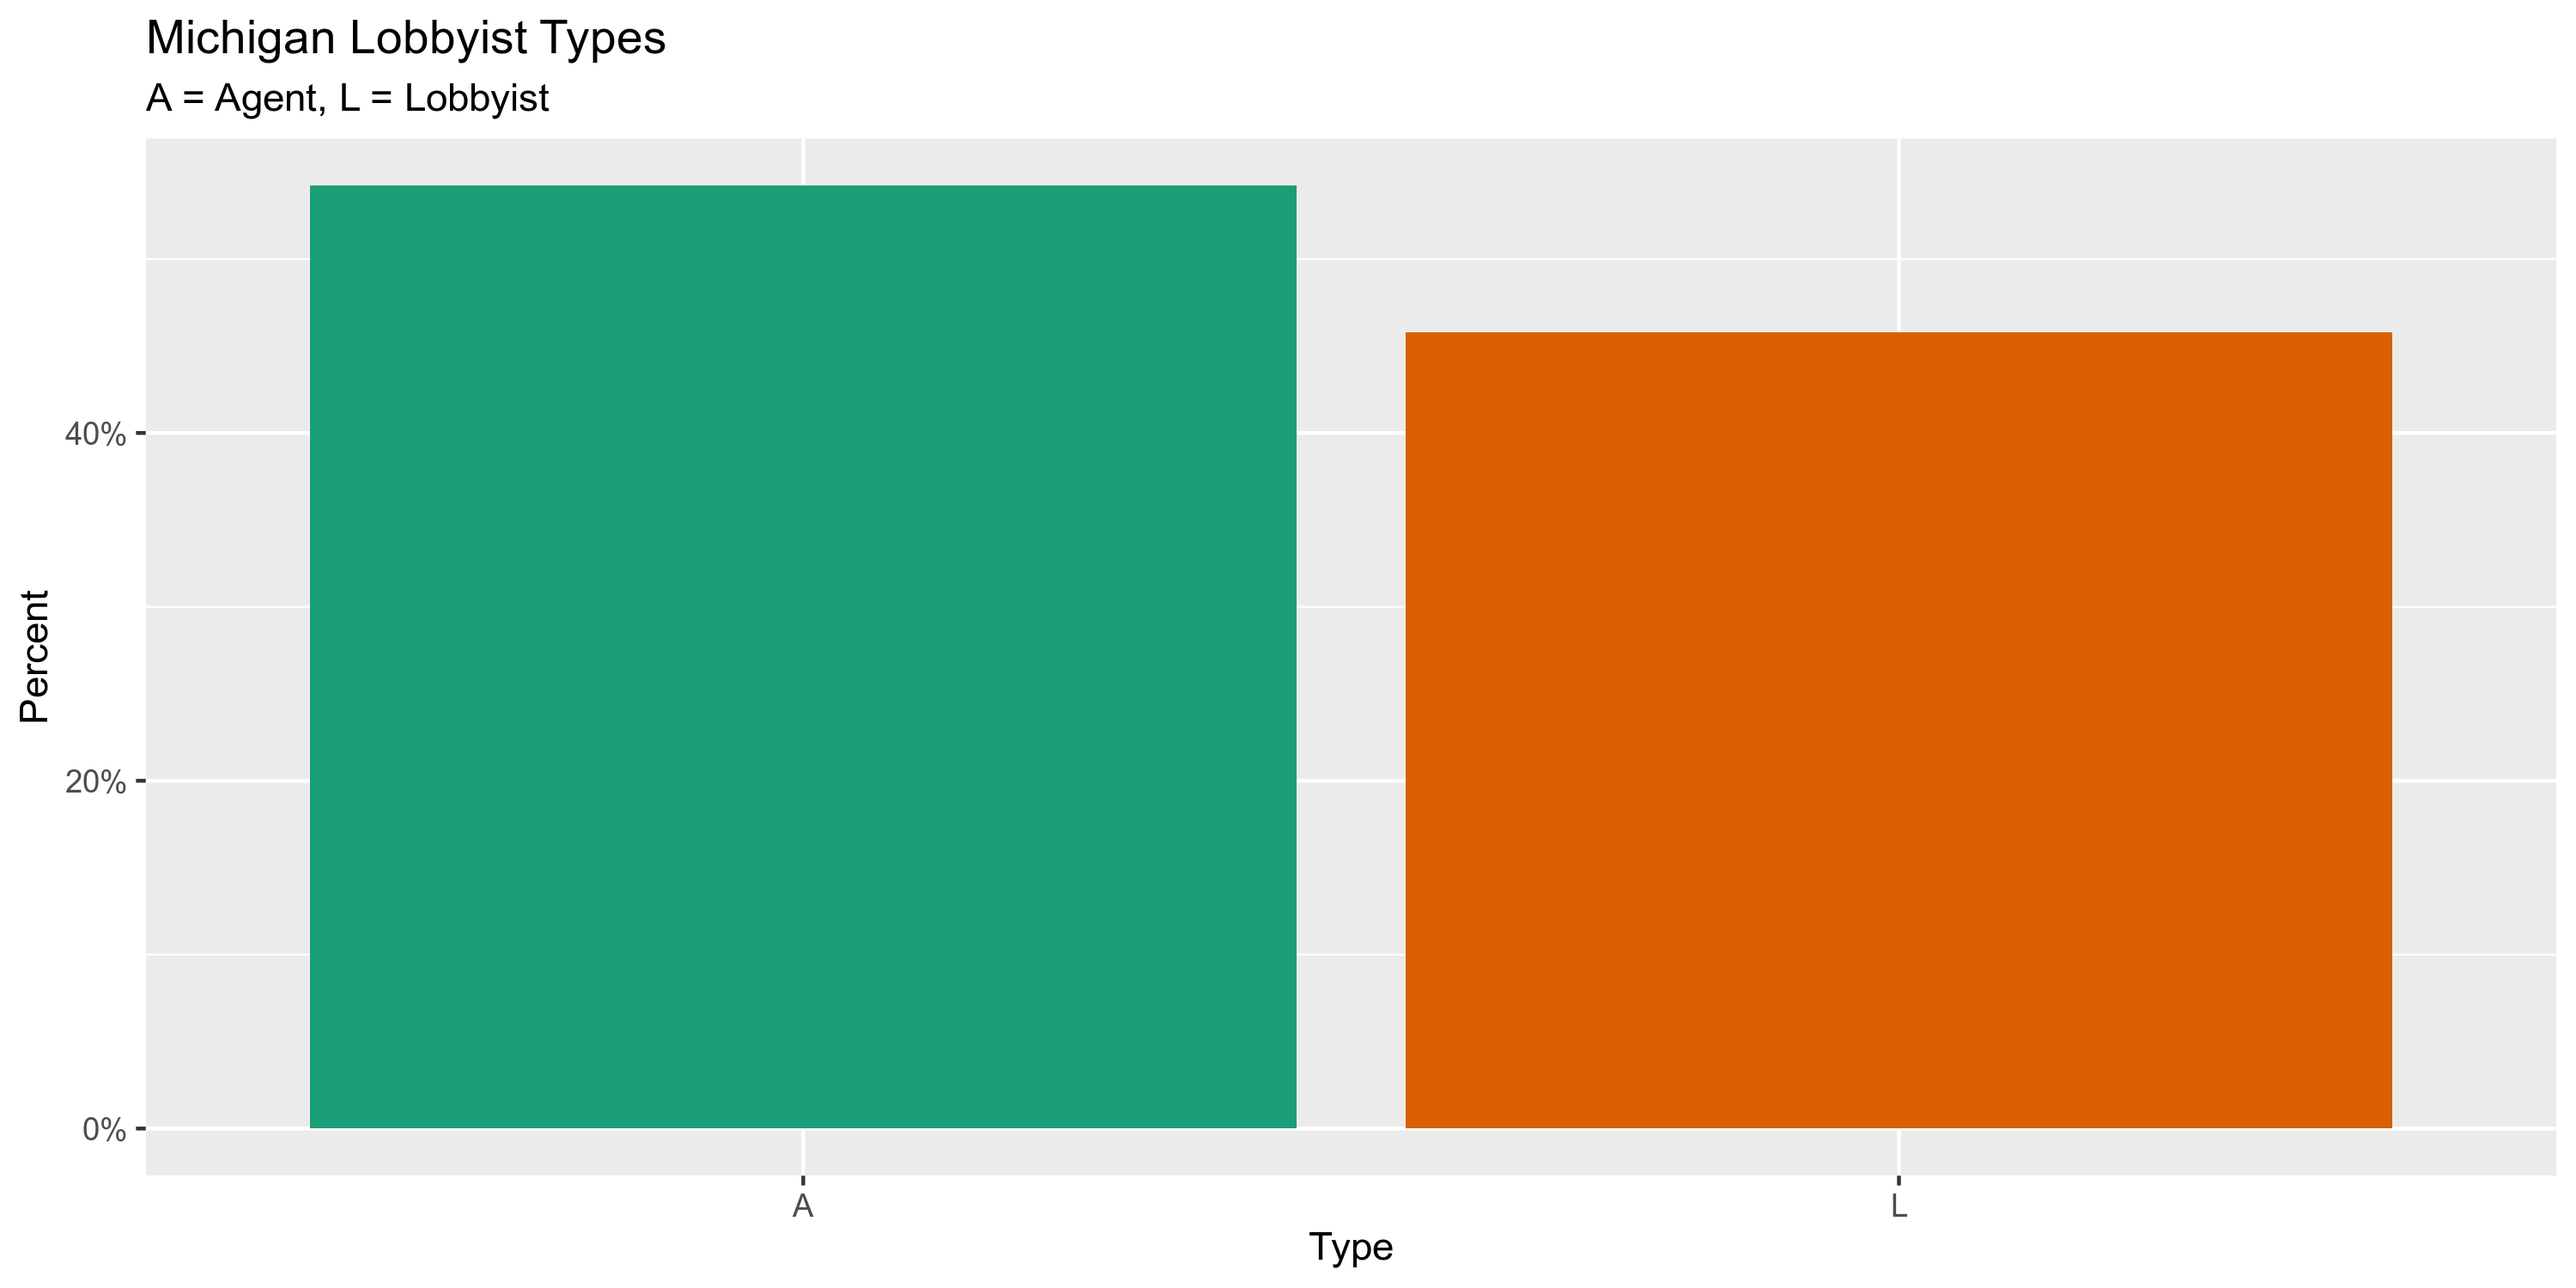
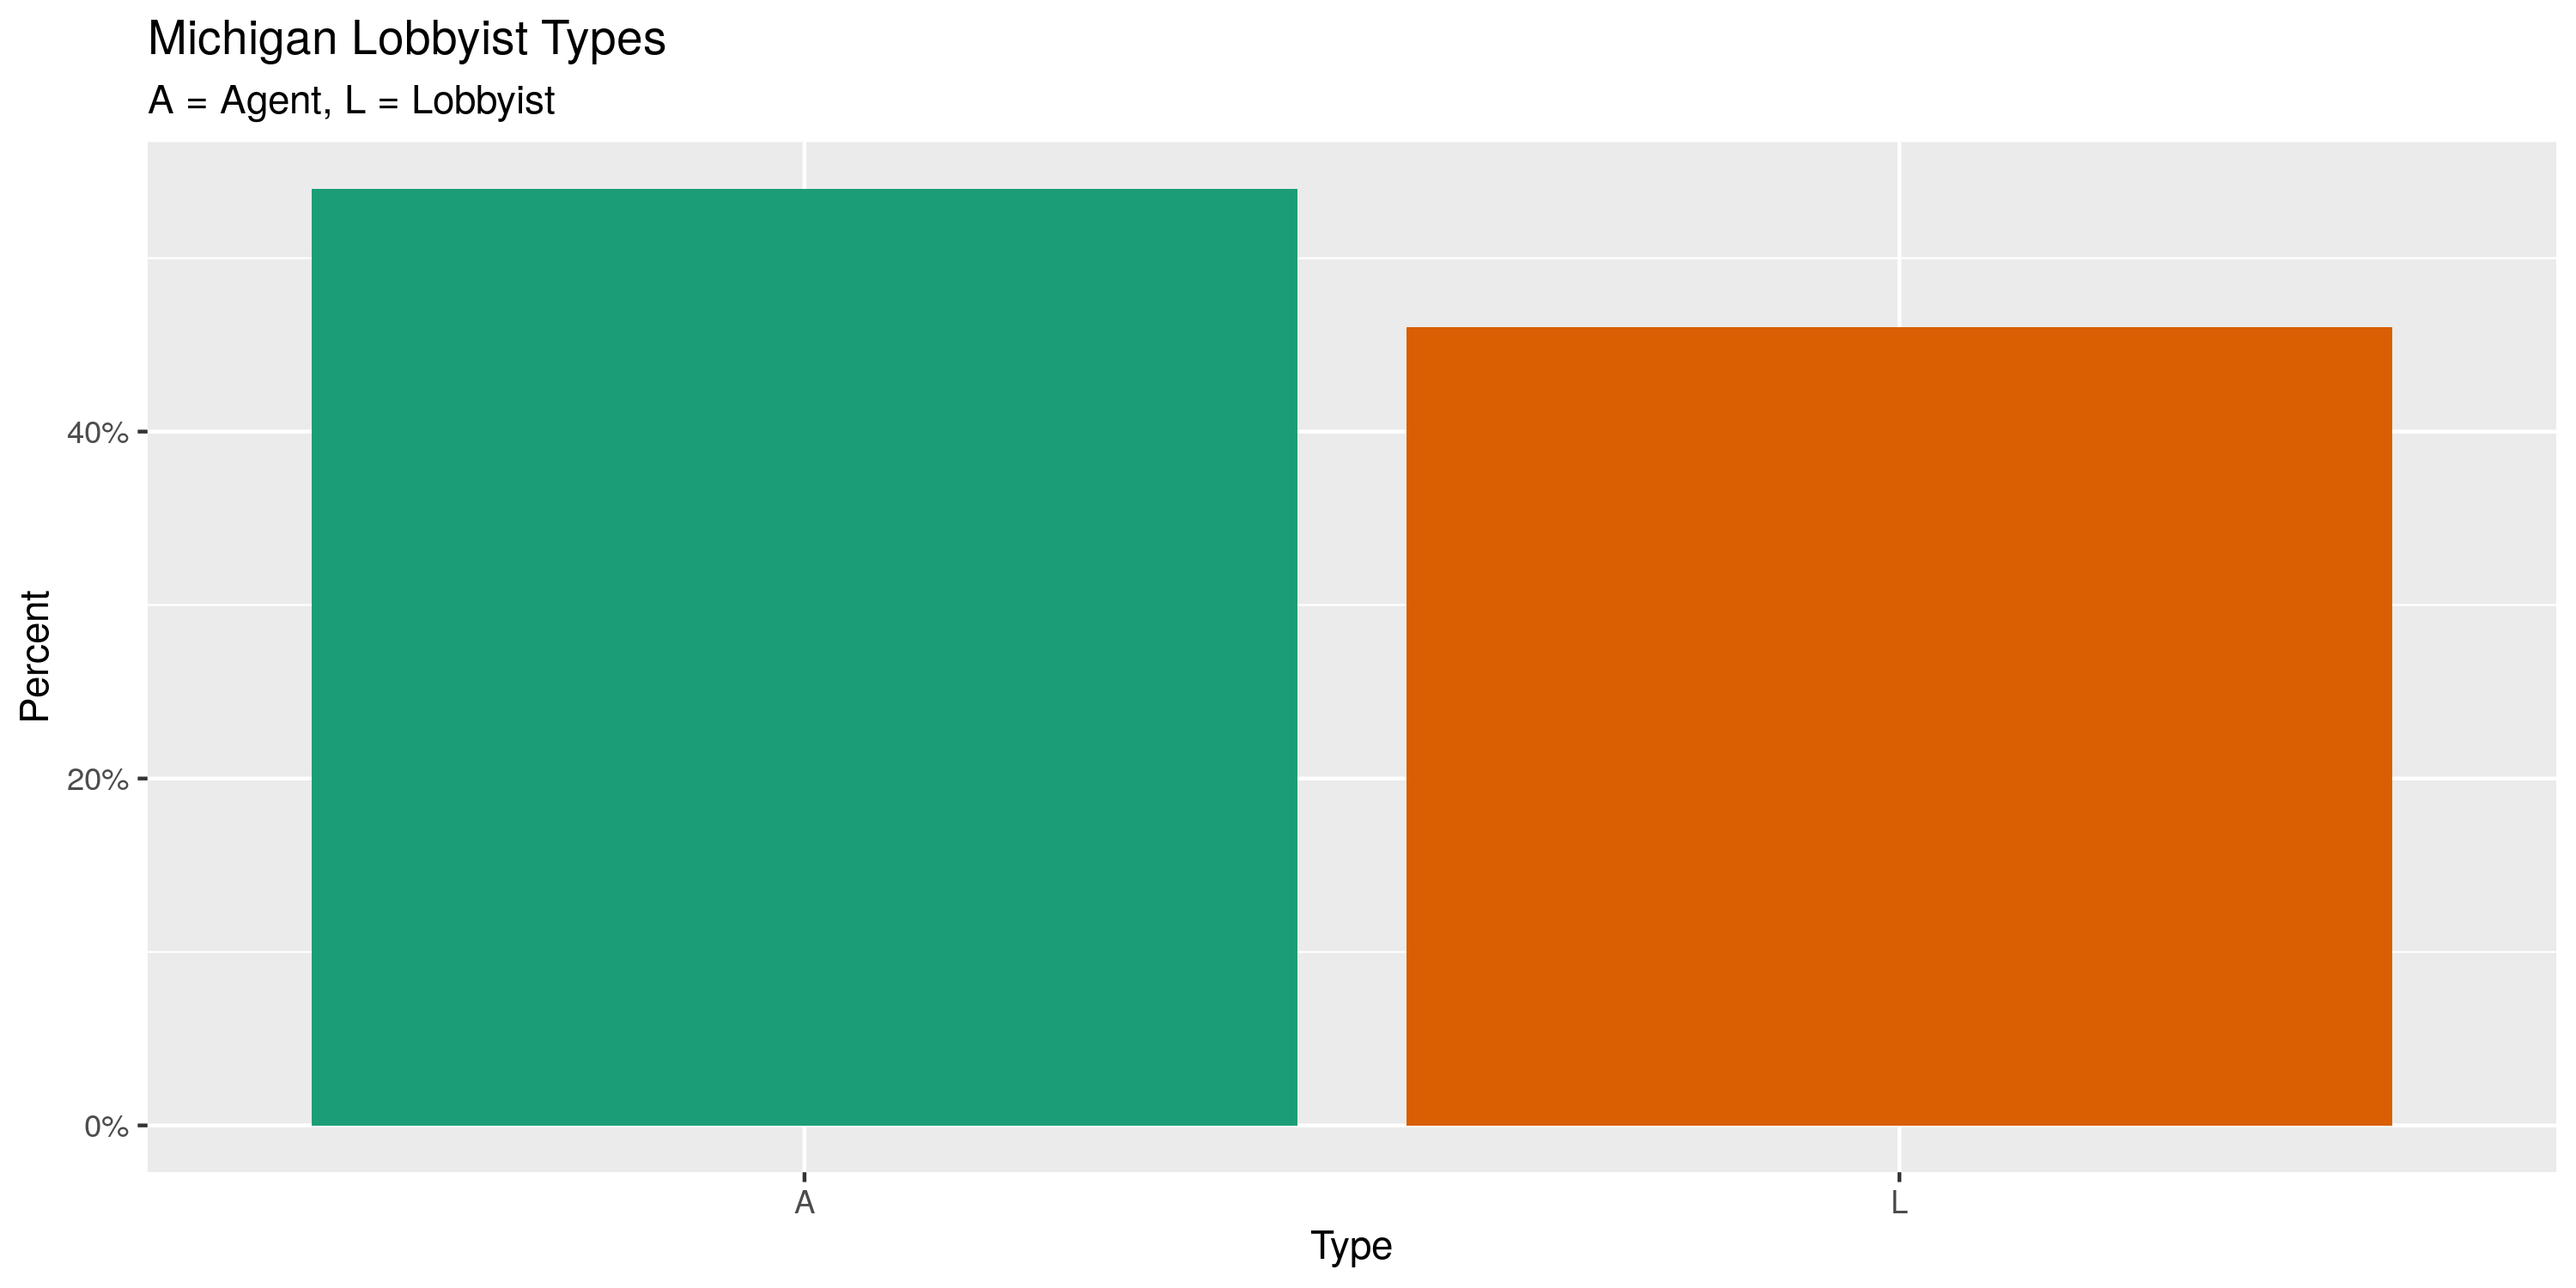
Update MI lobbyist registration

diff --git a/R_campfin/mi/lobby/docs/mi_lobby_diary.md b/R_campfin/mi/lobby/docs/mi_lobby_diary.md
@@ -1,7 +1,16 @@
 Michigan Lobbyists
 ================
 Kiernan Nicholls
-2019-12-04 16:10:11
+2020-01-21 16:03:02
+
+  - [Project](#project)
+  - [Objectives](#objectives)
+  - [Packages](#packages)
+  - [Data](#data)
+  - [Import](#import)
+  - [Explore](#explore)
+  - [Wrangle](#wrangle)
+  - [Export](#export)
 
 <!-- Place comments regarding knitting here -->
 
@@ -104,14 +113,17 @@ dir_create(raw_dir)
 ```
 
 ``` r
-lob_url <- "https://miboecfr.nicusa.com/cfr/dumpdata/aaa4NaO5g/mi_lobby.sh"
+# changes from time to time
+lob_url <- "https://miboecfr.nictusa.com/cfr/dumpdata/aaa51aybN/mi_lobby.sh"
 lob_path <- url2path(lob_url, raw_dir)
-download.file(
-  url = lob_url,
-  destfile = lob_path,
-  method = "curl",
-  extra = "--insecure"
-)
+if (!file_exists(lob_path)) {
+  download.file(
+    url = lob_url,
+    destfile = lob_path,
+    method = "curl",
+    extra = "--insecure"
+  )
+}
 ```
 
 ## Import
@@ -165,14 +177,14 @@ milr <- read_delim(
 ``` r
 head(milr)
 #> # A tibble: 6 x 13
-#>   id     type  last    first mi    sig     addr       city  state zip   phone reg        term      
-#>   <chr>  <fct> <chr>   <chr> <chr> <chr>   <chr>      <chr> <chr> <chr> <chr> <date>     <date>    
-#> 1 014673 A     (RADKE… JODI  L     <NA>    PO BOX 784 LOVE… CO    80539 9702… 2019-09-12 NA        
-#> 2 009995 L     2630 F… <NA>  <NA>  RICHAR… 721 NORTH… LANS… MI    4890… 5173… 2006-09-01 2008-11-30
-#> 3 011388 L     3 CLIC… <NA>  <NA>  A EDWI… 805 15TH … WASH… DC    20005 2026… 2010-07-12 2010-12-31
-#> 4 012438 L     3 REAS… <NA>  <NA>  RENAE … 201 TOWNS… LANS… MI    48933 5173… 2013-05-15 2014-07-31
-#> 5 011813 L     3D ETC… <NA>  <NA>  RICHAR… 22482 ORC… FARM… MI    48336 2489… 2011-08-15 2012-05-04
-#> 6 009088 L     3M COM… <NA>  <NA>  DAVID … 515 KING … ALEX… VA    22314 7036… 2003-01-01 NA
+#>   id     type  last     first mi    sig    addr       city  state zip   phone reg        term      
+#>   <chr>  <fct> <chr>    <chr> <chr> <chr>  <chr>      <chr> <chr> <chr> <chr> <date>     <date>    
+#> 1 014673 A     (RADKE)… JODI  L     <NA>   PO BOX 784 LOVE… CO    80539 9702… 2019-09-12 NA        
+#> 2 009995 L     2630 FE… <NA>  <NA>  RICHA… 721 NORTH… LANS… MI    4890… 5173… 2006-09-01 2008-11-30
+#> 3 011388 L     3 CLICK… <NA>  <NA>  A EDW… 805 15TH … WASH… DC    20005 2026… 2010-07-12 2010-12-31
+#> 4 012438 L     3 REASO… <NA>  <NA>  RENAE… 201 TOWNS… LANS… MI    48933 5173… 2013-05-15 2014-07-31
+#> 5 009088 L     3M COMP… <NA>  <NA>  DAVID… 515 KING … ALEX… VA    22314 7036… 2003-01-01 NA        
+#> 6 010670 L     3M ELEC… <NA>  <NA>  DAVID… 1838 GUNN… ODES… FL    33556 8137… 2008-06-09 2014-10-20
 tail(milr)
 #> # A tibble: 6 x 13
 #>   id     type  last   first  mi     sig      addr     city  state zip   phone reg        term      
@@ -181,24 +193,24 @@ tail(milr)
 #> 2 012240 A     ZWART  STEVEN J      <NA>     PO BOX … BAY … MI    4870… 9896… 2012-09-18 2013-12-31
 #> 3 009589 A     ZWARTZ ROBERT <NA>   <NA>     175 W J… CHIC… IL    60604 3124… 2005-06-21 2010-08-05
 #> 4 006811 A     ZYBLE  DAVID  A      <NA>     1 CORPO… LANS… MI    48951 5173… 1996-12-09 NA        
-#> 5 <NA>   <NA>  <NA>   <NA>   End o… 7,166 t… <NA>     <NA>  <NA>  <NA>  <NA>  NA         NA        
+#> 5 <NA>   <NA>  <NA>   <NA>   End o… 6,916 t… <NA>     <NA>  <NA>  <NA>  <NA>  NA         NA        
 #> 6 <NA>   <NA>  <NA>   <NA>   <NA>   <NA>     <NA>     <NA>  <NA>  <NA>  <NA>  NA         NA
 glimpse(sample_frac(milr))
-#> Observations: 7,168
+#> Observations: 6,918
 #> Variables: 13
-#> $ id    <chr> "005063", "000322", "012244", "012088", "007872", "011002", "001413", "008789", "0…
-#> $ type  <fct> A, A, A, A, L, L, L, L, L, A, L, A, A, A, A, A, A, A, A, A, A, L, L, A, L, A, A, L…
-#> $ last  <chr> "NIEMELA", "MATHEWSON", "HEMOND", "FULTS", "WAYNE WESTLAND COMMUNITY SCHOOLS", "NO…
-#> $ first <chr> "JOHN", "WILLIAM", "ADRIAN", "PAIGE", NA, NA, NA, NA, NA, "JEFF", NA, "KEN", "MURR…
-#> $ mi    <chr> "D", "C", NA, NA, NA, NA, NA, NA, NA, NA, NA, "J", "E", "J", "H", "MELVILLE", "G",…
-#> $ sig   <chr> NA, NA, NA, NA, "DENNIS O CAWTHORNE", "JAY DUPREY", "LEIGH GREDEN", "LINDA PIERCE"…
-#> $ addr  <chr> "417 SEYMOUR, STE 1 %COUNTY ROAD ASSOC OF MI", "1675 GREEN RD", "712 HALL BLVD", "…
-#> $ city  <chr> "LANSING", "ANN ARBOR", "MASON", "LANSING", "LANSING", "NOVI", "LANSING", "NOVI", …
-#> $ state <chr> "MI", "MI", "MI", "MI", "MI", "MI", "MI", "MI", NA, "MI", "MI", "NJ", "MI", "MI", …
-#> $ zip   <chr> "48933", "48105", "48854", "48933", "48933", "48376", "48933", "48375", "00000", "…
-#> $ phone <chr> "5174821189", "7346623246", "5178976016", "5177038601", "5173711400", "2483802111"…
-#> $ reg   <date> 1991-01-15, 1983-10-20, 2012-09-27, 2012-04-23, 2000-02-24, 2009-04-22, 1984-01-1…
-#> $ term  <date> 2013-10-31, 2018-08-28, 2012-12-31, NA, NA, 2010-01-20, NA, 2008-01-02, NA, 2018-…
+#> $ id    <chr> "013020", "012165", "011903", "009133", "009545", "013733", "010804", "009122", "0…
+#> $ type  <fct> A, A, A, A, A, A, A, A, A, A, A, A, A, A, L, A, A, A, A, A, L, A, L, A, A, A, A, A…
+#> $ last  <chr> "CRITCHFIELD", "NEWMAN", "TRUSCOTT ROSSMAN GROUP LLC", "FEDEWA", "BRADY", "OBRIEN"…
+#> $ first <chr> "BROOK", "DAVID", NA, "JANICE", "MICHAEL", "MICHAEL", "JOSEPH", "ANITA", "MICHAEL"…
+#> $ mi    <chr> "A", "L", NA, "M", NA, "G", NA, NA, "J", NA, NA, "C", "C", NA, NA, "J", NA, NA, NA…
+#> $ sig   <chr> NA, NA, "ELLEN MONTI", NA, NA, NA, NA, NA, NA, NA, NA, NA, NA, NA, "PETER J JASKOS…
+#> $ addr  <chr> "135 S LASALLE ST IL4-135-07-43", "41650 GARDENBROOK RD, STE 175", "124 W ALLEGAN,…
+#> $ city  <chr> "CHICAGO", "NOVI", "LANSING", "LANSING", "NORTHVILLE", "LANSING", "MILWAUKEE", "LA…
+#> $ state <chr> "IL", "MI", "MI", "MI", "MI", "MI", "WI", "MI", "MI", "MI", "CA", "MI", "MI", "DC"…
+#> $ zip   <chr> "60603", "483751320", "48933", "489121270", "48167", "48933", "53201", "48933", "4…
+#> $ phone <chr> "3128284902", "2485961006", "5174879320", "5173727770", "2482334837", "5173671242"…
+#> $ reg   <date> 2015-04-01, 2012-07-02, 2011-11-04, 2004-03-10, 2005-04-29, 2017-05-15, 2008-11-0…
+#> $ term  <date> 2015-12-31, 2017-08-07, NA, 2007-08-15, NA, NA, 2014-12-31, 2008-11-30, NA, NA, 2…
 ```
 
 As we can see from `tail()`, the last two rows still need to be removed.
@@ -211,19 +223,19 @@ col_stats(milr, n_distinct)
 #> # A tibble: 13 x 4
 #>    col   class      n        p
 #>    <chr> <chr>  <int>    <dbl>
-#>  1 id    <chr>   7167 1.000   
-#>  2 type  <fct>      3 0.000419
-#>  3 last  <chr>   6103 0.851   
-#>  4 first <chr>    906 0.126   
-#>  5 mi    <chr>    189 0.0264  
-#>  6 sig   <chr>   2606 0.364   
-#>  7 addr  <chr>   4554 0.635   
-#>  8 city  <chr>    726 0.101   
-#>  9 state <chr>     44 0.00614 
-#> 10 zip   <chr>   1361 0.190   
-#> 11 phone <chr>   3787 0.528   
-#> 12 reg   <date>  3528 0.492   
-#> 13 term  <date>  1260 0.176
+#>  1 id    <chr>   6917 1.00    
+#>  2 type  <fct>      3 0.000434
+#>  3 last  <chr>   5911 0.854   
+#>  4 first <chr>    884 0.128   
+#>  5 mi    <chr>    184 0.0266  
+#>  6 sig   <chr>   2534 0.366   
+#>  7 addr  <chr>   4396 0.635   
+#>  8 city  <chr>    710 0.103   
+#>  9 state <chr>     44 0.00636 
+#> 10 zip   <chr>   1324 0.191   
+#> 11 phone <chr>   3650 0.528   
+#> 12 reg   <date>  3464 0.501   
+#> 13 term  <date>  1186 0.171
 ```
 
 ``` r
@@ -241,16 +253,16 @@ col_stats(milr, count_na)
 #>  1 id    <chr>      0 0       
 #>  2 type  <fct>      0 0       
 #>  3 last  <chr>      0 0       
-#>  4 first <chr>   3489 0.487   
-#>  5 mi    <chr>   5501 0.768   
-#>  6 sig   <chr>   3680 0.514   
+#>  4 first <chr>   3380 0.489   
+#>  5 mi    <chr>   5325 0.770   
+#>  6 sig   <chr>   3539 0.512   
 #>  7 addr  <chr>      0 0       
 #>  8 city  <chr>      0 0       
-#>  9 state <chr>     20 0.00279 
-#> 10 zip   <chr>     17 0.00237 
-#> 11 phone <chr>    491 0.0685  
-#> 12 reg   <date>     2 0.000279
-#> 13 term  <date>  3015 0.421
+#>  9 state <chr>     20 0.00289 
+#> 10 zip   <chr>     17 0.00246 
+#> 11 phone <chr>    481 0.0695  
+#> 12 reg   <date>     2 0.000289
+#> 13 term  <date>  3024 0.437
 ```
 
 There are no duplicate rows in the database.
@@ -264,12 +276,12 @@ The database contains both outside lobbyist and lobbying agents.
 
 ![](../plots/plot_agent-1.png)<!-- -->
 
-42% of lobbyists in the database have a termination date, meaning only
-58% of the records identify active lobbyists.
+44% of lobbyists in the database have a termination date, meaning only
+56% of the records identify active lobbyists.
 
 ``` r
 prop_na(milr$term)
-#> [1] 0.4207368
+#> [1] 0.437247
 ```
 
 We can add the registration year using `lubridate::year()` on the date
@@ -295,45 +307,44 @@ non-numeric) format.
 milr <- mutate(milr, phone_norm = normal_phone(phone))
 ```
 
-    #> # A tibble: 3,787 x 2
+    #> # A tibble: 3,650 x 2
     #>    phone      phone_norm    
     #>    <chr>      <chr>         
-    #>  1 3177687078 (317) 768-7078
-    #>  2 3126517932 (312) 651-7932
-    #>  3 2486452000 (248) 645-2000
-    #>  4 8109873101 (810) 987-3101
-    #>  5 2123763112 (212) 376-3112
-    #>  6 7038718500 (703) 871-8500
-    #>  7 5174841525 (517) 484-1525
-    #>  8 2485590840 (248) 559-0840
-    #>  9 8006764065 (800) 676-4065
-    #> 10 5187962769 (518) 796-2769
-    #> # … with 3,777 more rows
+    #>  1 6147925703 (614) 792-5703
+    #>  2 8028603933 (802) 860-3933
+    #>  3 2484510324 (248) 451-0324
+    #>  4 5172678934 (517) 267-8934
+    #>  5 2485122501 (248) 512-2501
+    #>  6 3134967521 (313) 496-7521
+    #>  7 7035548511 (703) 554-8511
+    #>  8 5174822896 (517) 482-2896
+    #>  9 6163366750 (616) 336-6750
+    #> 10 5172855195 (517) 285-5195
+    #> # … with 3,640 more rows
 
 ### Address
 
 We can use `campfin::normal_address()` to improve the consistency in the
-`addr`
-variable.
+`addr` variable.
 
 ``` r
 milr <- mutate(milr, addr_norm = normal_address(addr, abbs = usps_street))
 ```
 
-    #> # A tibble: 4,553 x 2
-    #>    addr                                            addr_norm                                       
-    #>    <chr>                                           <chr>                                           
-    #>  1 7031 ORCHARD LAKE RD STE 105                    7031 ORCHARD LAKE ROAD SUITE 105                
-    #>  2 110 W MICHIGAN AVE SUITE 700                    110 WEST MICHIGAN AVENUE SUITE 700              
-    #>  3 ONE KELLOGG SQUARE 5S                           ONE KELLOGG SQUARE 5S                           
-    #>  4 2164 COMMONS PKWY %MI ACADEMY OF FMLY PHYSICIA… 2164 COMMONS PARKWAY MI ACADEMY OF FMLY PHYSICI…
-    #>  5 1118 E CHAMBERS ST                              1118 EAST CHAMBERS STREET                       
-    #>  6 11727 FRUEHAUF DR % DEANNA DUKE                 11727 FRUEHAUF DRIVE DEANNA DUKE                
-    #>  7 8118 CUTLER RD                                  8118 CUTLER ROAD                                
-    #>  8 110 W MICHIGAN AVE, STE 1200                    110 WEST MICHIGAN AVENUE SUITE 1200             
-    #>  9 301 ARMSTRONG RD ATTN: JACK BRUSEWITZ           301 ARMSTRONG ROAD ATTN JACK BRUSEWITZ          
-    #> 10 2591 ALDEN COURT                                2591 ALDEN COURT                                
-    #> # … with 4,543 more rows
+    #> # A tibble: 4,395 x 2
+    #>    addr                                    addr_norm                             
+    #>    <chr>                                   <chr>                                 
+    #>  1 171 MONROE AVE NW SUITE 410             171 MONROE AVE NW STE 410             
+    #>  2 901 44TH ST SE GH-4C-02                 901 44TH ST SE GH 4C 02               
+    #>  3 504 SPRUCE ST % RIO TINTO               504 SPRUCE ST RIO TINTO               
+    #>  4 430 W ALLEGAN ST                        430 W ALLEGAN ST                      
+    #>  5 208 N CAPITOL AVE 1ST FLOOR             208 N CAPITOL AVE 1ST FL              
+    #>  6 727 AIRPORT BOULEVARD                   727 AIRPORT BLVD                      
+    #>  7 600 S WAGNER RD                         600 S WAGNER RD                       
+    #>  8 ONE AMERICAN RD RM 630-E5 FORD MOTOR CO ONE AMERICAN RD RM 630 E5 FRD MOTOR CO
+    #>  9 29777 TELEGRAPH RD STE 4400             29777 TELEGRAPH RD STE 4400           
+    #> 10 PO BOX 26416                            PO BOX 26416                          
+    #> # … with 4,385 more rows
 
 ### ZIP
 
@@ -341,20 +352,20 @@ milr <- mutate(milr, addr_norm = normal_address(addr, abbs = usps_street))
 milr <- mutate(milr, zip_norm = normal_zip(zip, na_rep = TRUE))
 ```
 
-    #> # A tibble: 1,361 x 2
+    #> # A tibble: 1,324 x 2
     #>    zip       zip_norm
     #>    <chr>     <chr>   
-    #>  1 33308     33308   
-    #>  2 48179     48179   
-    #>  3 97415     97415   
-    #>  4 28217     28217   
-    #>  5 48309     48309   
-    #>  6 75201     75201   
-    #>  7 49707     49707   
-    #>  8 46410     46410   
-    #>  9 488643986 48864   
-    #> 10 33408     33408   
-    #> # … with 1,351 more rows
+    #>  1 48075     48075   
+    #>  2 49401     49401   
+    #>  3 80301     80301   
+    #>  4 20035     20035   
+    #>  5 78733     78733   
+    #>  6 05401     05401   
+    #>  7 945830716 94583   
+    #>  8 60064     60064   
+    #>  9 10080     10080   
+    #> 10 49032     49032   
+    #> # … with 1,314 more rows
 
 ``` r
 progress_table(
@@ -365,8 +376,8 @@ progress_table(
 #> # A tibble: 2 x 6
 #>   stage    prop_in n_distinct prop_na n_out n_diff
 #>   <chr>      <dbl>      <dbl>   <dbl> <dbl>  <dbl>
-#> 1 zip        0.920       1361 0.00237   571    299
-#> 2 zip_norm   0.999       1114 0.00293     9      9
+#> 1 zip        0.922       1324 0.00246   535    286
+#> 2 zip_norm   0.999       1090 0.00304     8      8
 ```
 
 ### State
@@ -460,9 +471,9 @@ many_city <- c(valid_city, extra_city, valid_locality)
 
 | stage      | prop\_in | n\_distinct | prop\_na | n\_out | n\_diff |
 | :--------- | -------: | ----------: | -------: | -----: | ------: |
-| city\_raw  |    0.982 |         725 |    0.000 |    126 |      71 |
-| city\_norm |    0.991 |         715 |    0.000 |     61 |      50 |
-| city\_swap |    0.998 |         678 |    0.005 |     14 |      12 |
+| city\_raw  |    0.977 |         709 |    0.000 |    160 |      65 |
+| city\_norm |    0.951 |         699 |    0.000 |    340 |     142 |
+| city\_swap |    0.997 |         669 |    0.005 |     18 |      13 |
 
 ## Export
 
